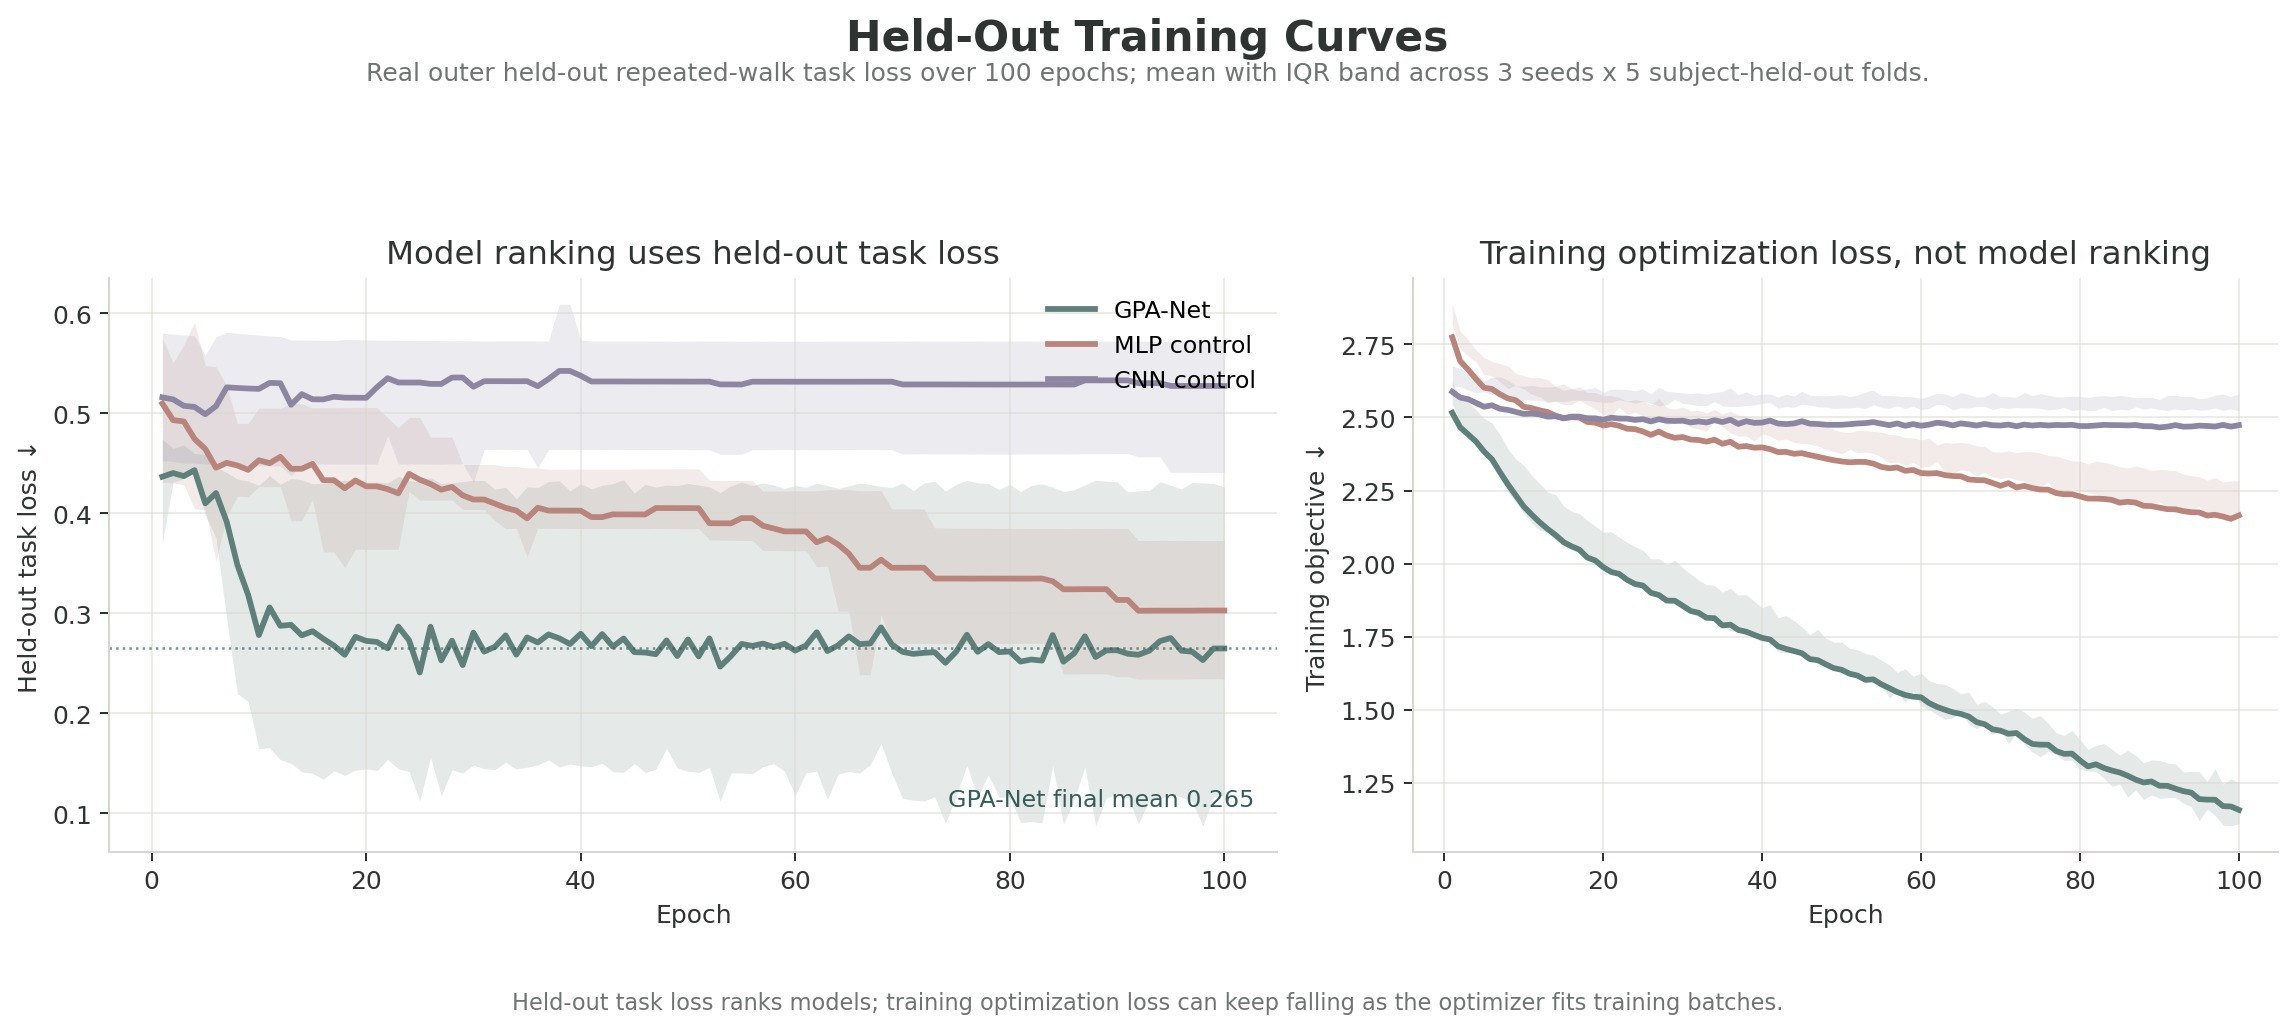
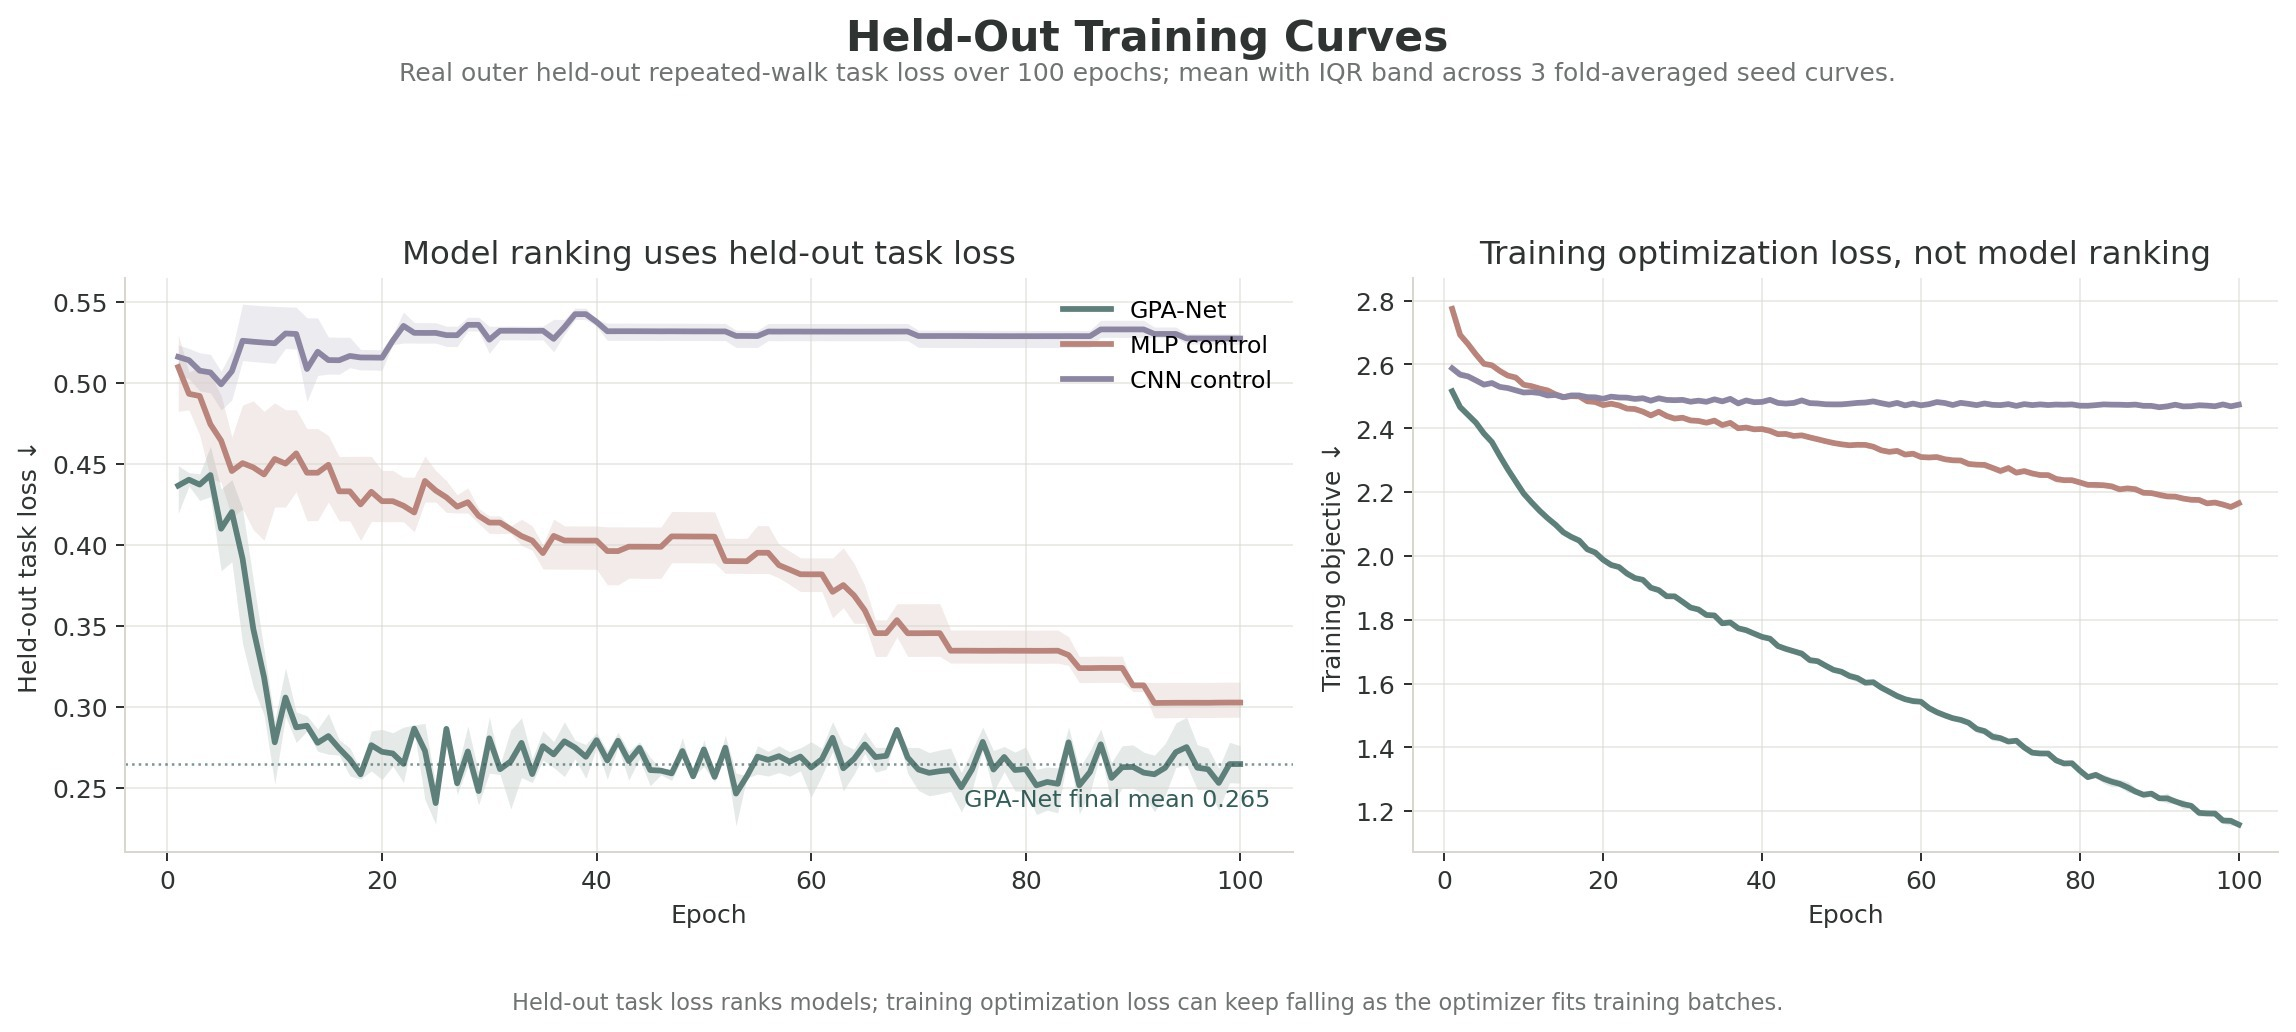
Refine held-out training curve variance band

diff --git a/scripts/export_release_assets.py b/scripts/export_release_assets.py
@@ -10,7 +10,6 @@ from pathlib import Path
 from typing import Iterable
 
 import numpy as np
-import pypdfium2 as pdfium
 from PIL import Image
 
 import matplotlib
@@ -295,6 +294,8 @@ def _join_manifest_values(values: Iterable[str]) -> str:
 
 
 def render_pdf_first_page_to_jpg(source: Path, destination: Path) -> tuple[int, int]:
+    import pypdfium2 as pdfium
+
     destination.parent.mkdir(parents=True, exist_ok=True)
     document = pdfium.PdfDocument(str(source))
     try:
@@ -675,7 +676,7 @@ def _export_training_curves(spec: EvidenceFigureSpec, destination: Path, sources
     history = pd.read_csv(sources[0])
     summary = pd.read_csv(sources[1])
     manifest = pd.read_csv(sources[2])
-    required = {"system_id", "public_name", "epoch", "heldout_loss", "train_loss"}
+    required = {"system_id", "public_name", "seed", "epoch", "heldout_loss", "train_loss"}
     missing = required - set(history.columns)
     if missing:
         raise RuntimeError(f"Training diagnostics are missing columns: {sorted(missing)}")
@@ -706,7 +707,7 @@ def _export_training_curves(spec: EvidenceFigureSpec, destination: Path, sources
         fig,
         (
             f"Real outer held-out repeated-walk task loss over {epoch_count} epochs; "
-            f"mean with IQR band across {seed_count} seeds x 5 subject-held-out folds."
+            f"mean with IQR band across {seed_count} fold-averaged seed curves."
         ),
         y=0.92,
     )
@@ -721,12 +722,7 @@ def _export_training_curves(spec: EvidenceFigureSpec, destination: Path, sources
             ("heldout_loss", ax_heldout, "Held-out task loss ↓"),
             ("train_loss", ax_train, "Training objective ↓"),
         ):
-            curve = (
-                subset.groupby("epoch")[metric]
-                .agg(mean="mean", low=lambda values: values.quantile(0.25), high=lambda values: values.quantile(0.75))
-                .reset_index()
-                .sort_values("epoch")
-            )
+            curve = _seed_averaged_epoch_curve(subset, metric)
             ax.plot(curve["epoch"], curve["mean"], color=color, linewidth=2.3, label=label)
             ax.fill_between(
                 curve["epoch"].to_numpy(dtype=float),
@@ -769,6 +765,24 @@ def _export_training_curves(spec: EvidenceFigureSpec, destination: Path, sources
     )
     fig.tight_layout(rect=(0.02, 0.08, 0.98, 0.86))
     return _save_matplotlib_jpg(fig, destination)
+
+
+def _seed_averaged_epoch_curve(subset: pd.DataFrame, metric: str) -> pd.DataFrame:
+    seed_epoch = (
+        subset.groupby(["seed", "epoch"], as_index=False)[metric]
+        .mean()
+        .dropna(subset=[metric])
+    )
+    return (
+        seed_epoch.groupby("epoch")[metric]
+        .agg(
+            mean="mean",
+            low=lambda values: values.quantile(0.25),
+            high=lambda values: values.quantile(0.75),
+        )
+        .reset_index()
+        .sort_values("epoch")
+    )
 
 
 def _export_phase_feature_sensitivity(spec: EvidenceFigureSpec, destination: Path, sources: tuple[Path, ...]) -> tuple[int, int]:

diff --git a/tests/test_export_release.py b/tests/test_export_release.py
@@ -1,6 +1,7 @@
 from __future__ import annotations
 
 import importlib.util
+import sys
 from pathlib import Path
 
 import pytest
@@ -9,6 +10,7 @@ import pytest
 RELEASE_ROOT = Path(__file__).resolve().parents[1]
 PROJECT_ROOT = RELEASE_ROOT.parent
 EXPORTER_PATH = RELEASE_ROOT / "scripts" / "export_release.py"
+ASSET_EXPORTER_PATH = RELEASE_ROOT / "scripts" / "export_release_assets.py"
 
 EXPECTED_ALLOWLIST = {
     "python_pipeline/phase3/data.py": "src/gpanet/data.py",
@@ -23,6 +25,20 @@ def _load_exporter():
     spec = importlib.util.spec_from_file_location("export_release_under_test", EXPORTER_PATH)
     assert spec and spec.loader
     module = importlib.util.module_from_spec(spec)
+    sys.modules[spec.name] = module
+    spec.loader.exec_module(module)
+    return module
+
+
+def _load_asset_exporter():
+    assert ASSET_EXPORTER_PATH.is_file(), f"Missing asset exporter: {ASSET_EXPORTER_PATH}"
+    spec = importlib.util.spec_from_file_location(
+        "export_release_assets_under_test",
+        ASSET_EXPORTER_PATH,
+    )
+    assert spec and spec.loader
+    module = importlib.util.module_from_spec(spec)
+    sys.modules[spec.name] = module
     spec.loader.exec_module(module)
     return module
 
@@ -126,3 +142,21 @@ def test_environment_and_requirements_are_portable_and_pinned() -> None:
         "torch>=2.11",
     ):
         assert banned not in combined
+
+
+def test_training_curve_band_is_seed_level_after_fold_averaging() -> None:
+    asset_exporter = _load_asset_exporter()
+    frame = asset_exporter.pd.DataFrame(
+        [
+            {"seed": 1, "epoch": 1, "heldout_loss": 0.0},
+            {"seed": 1, "epoch": 1, "heldout_loss": 10.0},
+            {"seed": 2, "epoch": 1, "heldout_loss": 4.0},
+            {"seed": 2, "epoch": 1, "heldout_loss": 6.0},
+        ]
+    )
+
+    curve = asset_exporter._seed_averaged_epoch_curve(frame, "heldout_loss")
+
+    assert curve.loc[0, "mean"] == 5.0
+    assert curve.loc[0, "low"] == 5.0
+    assert curve.loc[0, "high"] == 5.0

diff --git a/README.md b/README.md
@@ -32,7 +32,7 @@ The headline row is GPA-Net under the selected same-scope contract: `subject_id`
 
 ![Held-out training curve summary](assets/figures/heldout-training-curves.jpg)
 
-The curve uses real subject-held-out repeated-walk task loss over 100 epochs, 3 seeds, and 5 folds. Lines are means and shaded bands are interquartile ranges across 15 seed-fold blocks. Lower held-out loss indicates stronger performance under the fixed-control evaluation contract; the training optimization panel is shown for convergence context only.
+The curve uses real subject-held-out repeated-walk task loss over 100 epochs, 3 seeds, and 5 folds. Lines are means and shaded bands are interquartile ranges across fold-averaged seed curves. Lower held-out loss indicates stronger performance under the fixed-control evaluation contract; the training optimization panel is shown for convergence context only.
 
 | Method | Scope | Classification score ↑ | Balanced accuracy ↑ | Macro F1 ↑ | AUROC ↑ | Forefoot RMSE ↓ | Rearfoot RMSE ↓ | Entire-foot RMSE ↓ |
 | --- | --- | ---: | ---: | ---: | ---: | ---: | ---: | ---: |
